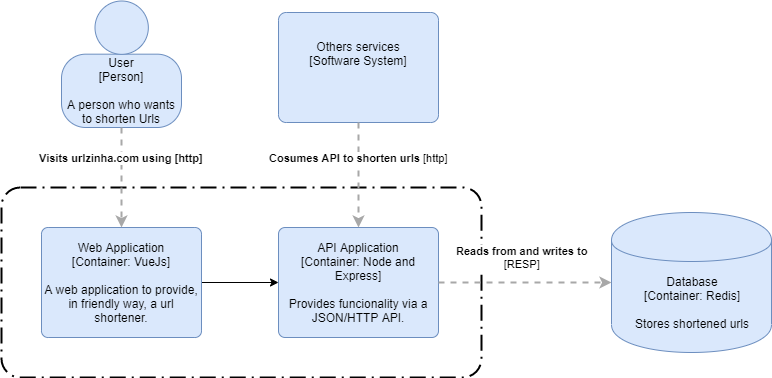
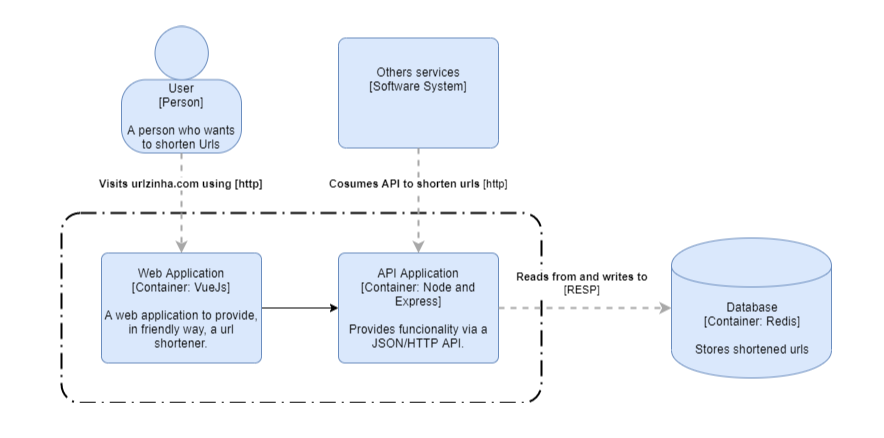
Adjusting README

diff --git a/README.md b/README.md
@@ -1,10 +1,39 @@
 # Urlzinha
   This is Urlzinha, a api and web service to shorten urls. Urlzinha in portuguese mean's something like 'small url'
 
+## Architecture of the solution
+
+The solution is composed by a Web Application created using [Vue Js](https://vuejs.org) and a Web Service Application created using [Express](https://vuejs.org)
+
+### C4 Model Container Diagram
+![Container Diagram](c4-model-container.png)
+
+
+## Setup
+
+1. Node/NPM approach:
+
+    #### Dependencies:
+    - NodeJS
+    - Npm    
+    
+    Uses `npm install` to install web app and api, then run `npm start`. This approach will use a redis instance that is available  on [RedisLabs](https://vuejs.org) configurad by default. Web app on the port: 8080 and Api on 3000
+
+2. Docker approach:
+
+    #### Dependencies:
+    - Docker 
+
+    Run `docker-compose up` to build, run and let available the Web app on the port 8080 and Api on 3000 and behind the scene a Redis instance. 
+
+## Usage
+
+//TODO
+
 
 ## Help
 ### Docker commands
-```
+```sh
 docker build -f Dockerfile-Api -t urlzinha-api .
 docker image rm urlzinha-api
 
